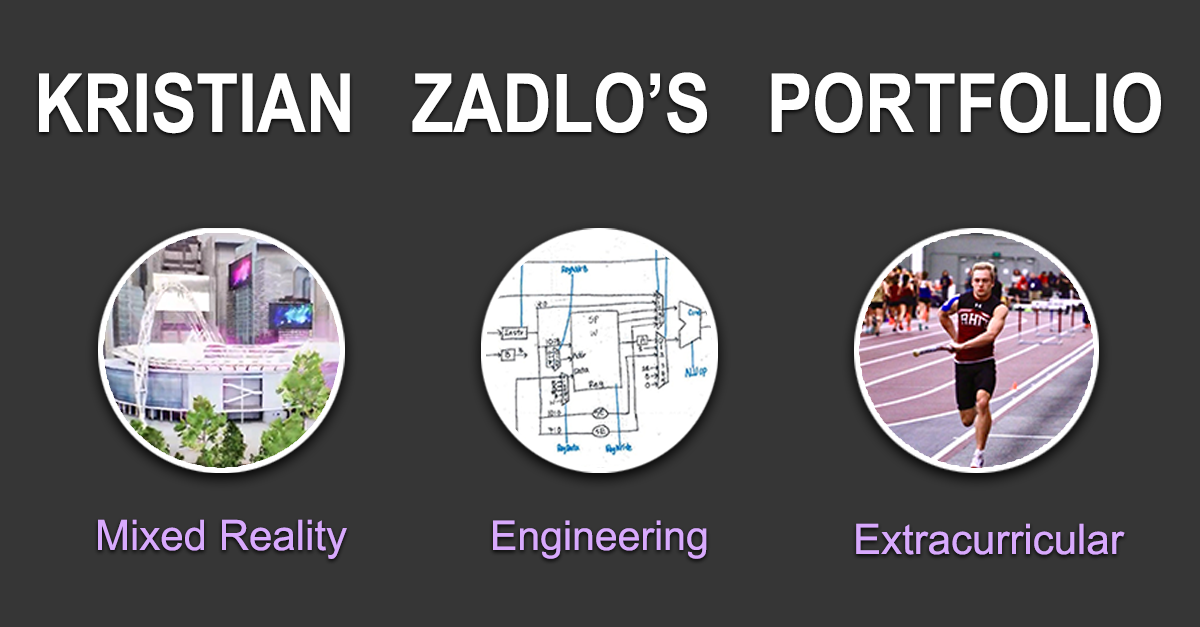
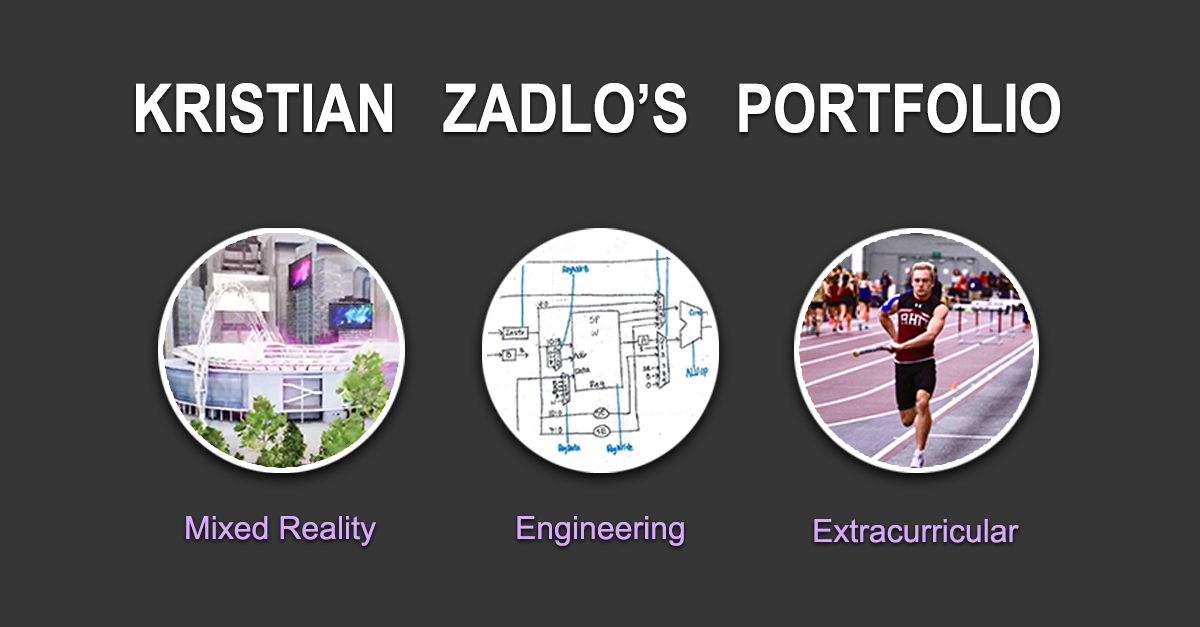
Shrink thumbnail image

diff --git a/index.html b/index.html
@@ -8,7 +8,7 @@
     <meta name="author" content="Kristian Zadlo">
     <meta property="og:site_name" content="Kristian Zadlo's Portfolio">
     <meta property="og:title" content="Kristian Zadlo's Portfolio" />
-    <meta property="og:description" content="Kristian's creative and engineering portfolio projects!" />
+    <meta property="og:description" content="I have some fun projects to show you! This includes AR, design, film, engineering, and photography work I've completed since entering college." />
     <meta property="og:image" itemprop="image" content="./images/Thumbnails/main.png">
     <meta property="og:url" itemprop="image" content="https://kristianz.github.io">
     <meta property="og:type" content="website" />
